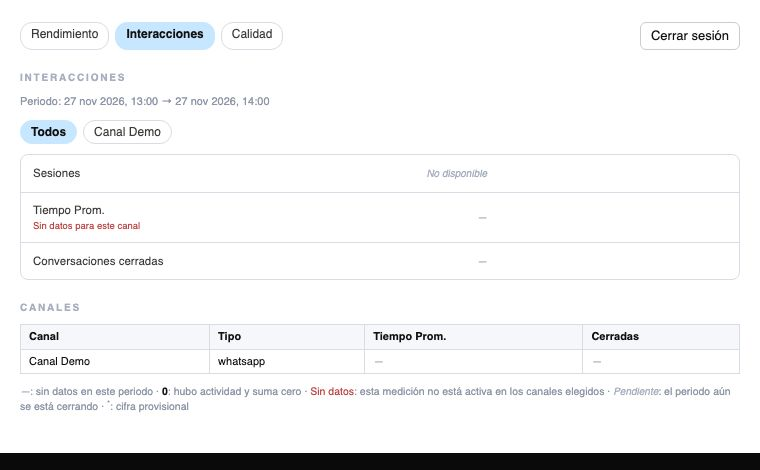
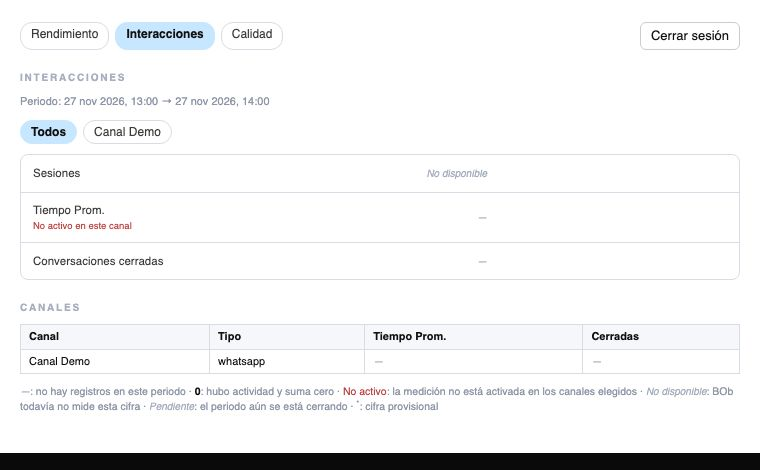
fix(bob): una palabra por significado en la vista del viewer
«—» es que no hubo registros, «No activo» que la medición no está activada
en los canales elegidos, «No disponible» que BOb aún no la mide y
«Pendiente» que el periodo se está cerrando. La leyenda de cada pantalla
nombra solo lo que esa pantalla puede pintar. Para el viewer, s0–s4 llevan
los nombres del simulador (Enojado … Feliz) y la celda sin sentido de MECA
queda vacía en vez de «no aplica». LocalWindow recibe milisegundos, así que
la ventana ISO no viaja en lo que recibe el viewer.

Changed region(s): [[0.0303, 0.8043, 0.9684, 0.8936], [0.0303, 0.4766, 0.1816, 0.5064]]

diff --git a/lib/bob/screen-copy.ts b/lib/bob/screen-copy.ts
@@ -11,7 +11,7 @@
 // viewer, so an unknown role never sees the technical text.
 import type { Cell, MatrixRow } from './matrix.ts'
 import { STATE_LABEL, reasonSummary, stateTitle } from './cell-state.ts'
-import type { NotProjection } from './screens.ts'
+import type { NotProjection, SentimentState } from './screens.ts'
 
 export type Audience = 'viewer' | 'technical'
 
@@ -35,7 +35,18 @@ export type Paint = {
 
 export type CellFormat = { format?: (v: number) => string; unit?: string; pct?: boolean }
 
-const VIEWER_NO_DATA = 'Sin datos en este periodo.'
+// One word, one meaning, for the viewer (review of PR #66):
+//   «—»             nothing was recorded in the period;
+//   «No activo»     the measurement is not switched on for the chosen channels;
+//   «No disponible» BOb does not measure this figure yet;
+//   «Pendiente»     the period is still closing.
+export const VIEWER_WORD = {
+  none: '—',
+  inactive: 'No activo',
+  unavailable: 'No disponible',
+  pending: 'Pendiente',
+} as const
+const VIEWER_NONE = 'No hay registros en este periodo.'
 const VIEWER_PROVISIONAL = 'Cifra provisional: el periodo aún no cierra.'
 
 export function paintCell(cell: Cell, a: Audience, f: CellFormat = {}): Paint {
@@ -47,15 +58,17 @@ export function paintCell(cell: Cell, a: Audience, f: CellFormat = {}): Paint {
     const title = tech ? stateTitle(st) : undefined
     switch (st.state) {
       case 'not_applicable':
-        return { tone: 'empty', text: '', title, label: STATE_LABEL.not_applicable }
+        return { tone: 'empty', text: '', title, label: tech ? STATE_LABEL.not_applicable : undefined }
       case 'not_configured':
         return tech
           ? { tone: 'notConfigured', text: reasonSummary(st.reasons) || STATE_LABEL.not_configured, title }
-          : { tone: 'notConfigured', text: 'Sin datos' }
+          : { tone: 'notConfigured', text: VIEWER_WORD.inactive }
       case 'pending':
-        return { tone: 'noRow', text: STATE_LABEL.pending, title: tech ? title : 'Los datos de este periodo aún se están cerrando.' }
+        return { tone: 'noRow', text: STATE_LABEL.pending, title: tech ? title : 'El periodo aún se está cerrando.' }
       default:
-        return { tone: 'noRow', text: '—', title: tech ? title : VIEWER_NO_DATA, label: STATE_LABEL[st.state] }
+        return tech
+          ? { tone: 'noRow', text: '—', title, label: STATE_LABEL[st.state] }
+          : { tone: 'noRow', text: VIEWER_WORD.none, title: VIEWER_NONE }
     }
   }
   // Observed with no row: a declared-absent actor, a zero by declaration (F-32).
@@ -66,7 +79,7 @@ export function paintCell(cell: Cell, a: Audience, f: CellFormat = {}): Paint {
   if (cell.kind === 'no_row') {
     return tech
       ? { tone: 'noRow', text: 'sin fila', title: 'sin fila de proyección' }
-      : { tone: 'noRow', text: '—', title: VIEWER_NO_DATA }
+      : { tone: 'noRow', text: VIEWER_WORD.none, title: VIEWER_NONE }
   }
   const open = cell.open > 0 ? (tech ? `${cell.open} de ${cell.rows} filas sin sellar` : VIEWER_PROVISIONAL) : undefined
   if (cell.kind === 'zero') {
@@ -85,7 +98,12 @@ export function paintCell(cell: Cell, a: Audience, f: CellFormat = {}): Paint {
 export function paintNoProjection(np: NotProjection, a: Audience): Paint {
   return a === 'technical'
     ? { tone: 'noRow', text: 'sin proyección', title: np.note }
-    : { tone: 'noRow', text: 'No disponible' }
+    : { tone: 'noRow', text: VIEWER_WORD.unavailable }
+}
+
+// A cell that has no meaning for its row (MECA has no conversation close).
+export function paintNotApplicable(a: Audience): Paint {
+  return a === 'technical' ? { tone: 'noRow', text: 'no aplica' } : { tone: 'empty', text: '' }
 }
 
 // ── Lines under a metric's name ──────────────────────────────────────────────
@@ -95,7 +113,7 @@ export type Note = { tone: 'source' | 'notConfigured'; text: string }
 
 // What a viewer reads when no selected channel can produce the figure.
 export function viewerNoData(selectedCount: number): string {
-  return selectedCount === 1 ? 'Sin datos para este canal' : 'Sin datos para estos canales'
+  return `${VIEWER_WORD.inactive} ${selectedCount === 1 ? 'en este canal' : 'en estos canales'}`
 }
 
 // Under a Performance row: where the figure comes from (technical), or only
@@ -183,16 +201,25 @@ export function sentimentTitle(a: Audience): string {
 // One legend item: a sample painted in a tone, then its meaning.
 export type LegendItem = { sample?: { tone: Tone | 'sup'; text: string }; text: string }
 
-const VIEWER_LEGEND: LegendItem[] = [
-  { sample: { tone: 'noRow', text: '—' }, text: 'sin datos en este periodo' },
-  { sample: { tone: 'zero', text: '0' }, text: 'hubo actividad y suma cero' },
-  { sample: { tone: 'notConfigured', text: 'Sin datos' }, text: 'esta medición no está activa en los canales elegidos' },
-  { sample: { tone: 'noRow', text: 'Pendiente' }, text: 'el periodo aún se está cerrando' },
-  { sample: { tone: 'sup', text: '*' }, text: 'cifra provisional' },
-]
+// The viewer's legend names only what the screen can paint: «Pendiente» only
+// where Slice 3 states are read, «No disponible» only where a figure has no
+// measurement behind it, the share only where there are shares.
+export function viewerLegend(o: { pending: boolean; unavailable: boolean; share?: string; extra?: string }): LegendItem[] {
+  const items: LegendItem[] = [
+    { sample: { tone: 'noRow', text: VIEWER_WORD.none }, text: 'no hay registros en este periodo' },
+    { sample: { tone: 'zero', text: '0' }, text: 'hubo actividad y suma cero' },
+    { sample: { tone: 'notConfigured', text: VIEWER_WORD.inactive }, text: 'la medición no está activada en los canales elegidos' },
+  ]
+  if (o.unavailable) items.push({ sample: { tone: 'noRow', text: VIEWER_WORD.unavailable }, text: 'BOb todavía no mide esta cifra' })
+  if (o.pending) items.push({ sample: { tone: 'noRow', text: VIEWER_WORD.pending }, text: 'el periodo aún se está cerrando' })
+  items.push({ sample: { tone: 'sup', text: '*' }, text: 'cifra provisional' })
+  if (o.share) items.push({ text: o.share })
+  if (o.extra) items.push({ text: o.extra })
+  return items
+}
 
-export function performanceLegend(a: Audience): LegendItem[] {
-  if (a === 'viewer') return [...VIEWER_LEGEND, { text: '% = parte del total de la fila' }]
+export function performanceLegend(a: Audience, slice3: boolean): LegendItem[] {
+  if (a === 'viewer') return viewerLegend({ pending: slice3, unavailable: true, share: '% = parte del total de la fila' })
   return [
     { sample: { tone: 'noRow', text: 'sin fila' }, text: 'ninguna fila de proyección en la ventana' },
     { sample: { tone: 'noRow', text: 'sin proyección' }, text: 'la fila de la demo no tiene tabla detrás' },
@@ -203,24 +230,33 @@ export function performanceLegend(a: Audience): LegendItem[] {
   ]
 }
 
-export function qualityLegend(a: Audience): LegendItem[] {
-  const mix = 'ORGA y MECA no se mezclan: la mezcla depende del peso mecánico configurado y se calcula al leer.'
+export function qualityLegend(a: Audience, slice3: boolean): LegendItem[] {
   if (a === 'viewer') {
-    return [...VIEWER_LEGEND, { text: '% = parte de las lecturas de esa fuente' }, { text: 'ORGA y MECA se muestran por separado.' }]
+    return viewerLegend({
+      pending: slice3, unavailable: true,
+      share: '% = parte de las lecturas de esa fuente', extra: 'ORGA y MECA se muestran por separado.',
+    })
   }
   return [
     { sample: { tone: 'noRow', text: 'sin fila' }, text: 'ninguna fila en la ventana' },
     { sample: { tone: 'zero', text: '0' }, text: 'hay filas y suman cero' },
     { text: '% = parte de las lecturas de esa fuente' },
     { sample: { tone: 'sup', text: '*' }, text: 'incluye buckets sin sellar' },
-    { text: mix },
+    { text: 'ORGA y MECA no se mezclan: la mezcla depende del peso mecánico configurado y se calcula al leer.' },
   ]
 }
 
-// Interactions has no legend of its own; the viewer gets the shared one.
-export function interactionsLegend(a: Audience): LegendItem[] | null {
-  return a === 'viewer' ? VIEWER_LEGEND : null
+// Interactions has no legend of its own; the viewer gets one.
+export function interactionsLegend(a: Audience, slice3: boolean): LegendItem[] | null {
+  return a === 'viewer' ? viewerLegend({ pending: slice3, unavailable: true }) : null
 }
+
+// The five sentiment states are ordinal (contract §6.2). The viewer reads
+// them with the simulator's own names (public/dashboard.html, T.es.sent).
+const SENTIMENT_LABEL: Record<SentimentState, string> = {
+  s0: 'Enojado', s1: 'Insatisfecho', s2: 'Satisfecho', s3: 'Contento', s4: 'Feliz',
+}
+export const sentimentLabel = (st: SentimentState, a: Audience) => (a === 'technical' ? st : SENTIMENT_LABEL[st])
 
 // Slice 3's note: technical only. The viewer's legend already says what each
 // state means.

diff --git a/lib/bob/screen-copy.test.ts b/lib/bob/screen-copy.test.ts
@@ -63,7 +63,7 @@ function screenText(screen: Screen, a: Audience, channels: Channel[]): string[] 
   if (screen === 'performance') {
     const m = buildMatrix([], [], channels)
     for (const r of [...m.rows, ...m.labelFailures]) out.push(...noteText(rowSource(r, a, n)))
-    out.push(...paintText(paintNoTable(a)), labelFailuresTitle(a), ...legendText(performanceLegend(a)))
+    out.push(...paintText(paintNoTable(a)), labelFailuresTitle(a), ...legendText(performanceLegend(a, true)))
     if (showsTechnicalTables(a)) out.push('Canales seleccionados', 'lag_seconds', 'idle_bound_seconds', 'Capacidades', 'proj_durations')
   }
   if (screen === 'interactions') {
@@ -71,12 +71,12 @@ function screenText(screen: Screen, a: Audience, channels: Channel[]): string[] 
     out.push(...noteText(techNote(s.sessions.note, a)), ...paintText(paintNoProjection(s.sessions, a)))
     out.push(...noteText(techNote('proj_durations · interaction_duration (sum_ms / n)', a)))
     out.push(...noteText(declared('capacidad resolution', s.durationDeclaredBy, a, n)))
-    out.push(...noteText(techNote('n de interaction_duration', a)), ...legendText(interactionsLegend(a)))
+    out.push(...noteText(techNote('n de interaction_duration', a)), ...legendText(interactionsLegend(a, true)))
   }
   if (screen === 'quality') {
     const s = buildQuality([], [], channels)
     out.push(...noteText(techNote(s.nps.note, a)), ...paintText(paintNoProjection(s.nps, a)))
-    out.push(sentimentTitle(a), labelFailuresTitle(a), ...legendText(qualityLegend(a)))
+    out.push(sentimentTitle(a), labelFailuresTitle(a), ...legendText(qualityLegend(a, true)))
     for (const p of [s.orga, s.meca]) {
       out.push(...noteText(declared(p.source === 'orga' ? 'orga_conversation' : 'meca_rum', p.declaredBy, a, n)))
     }
@@ -124,11 +124,11 @@ test('only admin and analyst are technical; viewer, no role and unknown roles re
   assert.equal(showsTechnicalTables('viewer'), false)
 })
 
-test('the viewer red warning is short and says whether one channel or several', () => {
+test('the viewer warning is short and says whether one channel or several', () => {
   const m = buildMatrix([], [], [ch('a', [])])
   const resolved = m.rows.find((r) => r.spec.id === 'resolved')!
-  assert.deepEqual(rowSource(resolved, 'viewer', 1), { tone: 'notConfigured', text: 'Sin datos para este canal' })
-  assert.deepEqual(rowSource(resolved, 'viewer', 3), { tone: 'notConfigured', text: 'Sin datos para estos canales' })
+  assert.deepEqual(rowSource(resolved, 'viewer', 1), { tone: 'notConfigured', text: 'No activo en este canal' })
+  assert.deepEqual(rowSource(resolved, 'viewer', 3), { tone: 'notConfigured', text: 'No activo en estos canales' })
   assert.equal(rowSource(m.rows.find((r) => r.spec.id === 'escalations')!, 'viewer', 1), null)
 })
 
@@ -150,4 +150,22 @@ test('the window reads as a date and time, not as ISO instants', () => {
   assert.match(s, /10:00/)
   assert.match(s, /11:00/)
   assert.match(formatWindow(FROM, TO, 'America/Bogota'), /5:00/)
+})
+
+test('each viewer word has one meaning', () => {
+  const v = (c: Cell) => paintCell(c, 'viewer').text
+  assert.equal(v({ kind: 'no_row' }), '—')
+  assert.equal(v({ kind: 'no_row', state: info('not_observed', ['no_liveness']) }), '—')
+  assert.equal(v({ kind: 'no_row', state: info('not_configured', ['source_key_unset']) }), 'No activo')
+  assert.equal(v({ kind: 'no_row', state: info('pending', ['not_sealed']) }), 'Pendiente')
+  assert.equal(paintNoProjection({ kind: 'not_projection', note: 'x' }, 'viewer').text, 'No disponible')
+  // «Pendiente» is named only where Slice 3 states are read.
+  const has = (items: LegendItem[] | null, w: string) => (items ?? []).some((i) => i.sample?.text === w)
+  assert.equal(has(interactionsLegend('viewer', false), 'Pendiente'), false)
+  assert.equal(has(interactionsLegend('viewer', true), 'Pendiente'), true)
+  for (const legend of [performanceLegend('viewer', true), qualityLegend('viewer', true), interactionsLegend('viewer', true)]) {
+    const words = legend!.flatMap((i) => (i.sample ? [i.sample.text] : []))
+    assert.equal(new Set(words).size, words.length)
+    assert.doesNotMatch(legend!.map((i) => i.text).join(' '), /sin datos/i)
+  }
 })

diff --git a/app/bob/quality/page.tsx b/app/bob/quality/page.tsx
@@ -10,10 +10,11 @@ import {
   BobConfigError, UnknownChannelError, boxOrgId, readQuality, type QualityRead,
 } from '@/lib/bob/projection-reader.ts'
 import {
-  CellText, ChannelPicker, LegendView, NoProjection, NoteLine, ReadError, ScreenHeader, ScreenNav, Unavailable, Forbidden, windowQs,
+  CellText, ChannelPicker, LegendView, NoProjection, NoteLine, PaintView, ReadError, ScreenHeader, ScreenNav, Unavailable, Forbidden, windowQs,
 } from '../screen-parts'
 import {
-  audienceFor, declared, labelFailuresTitle, qualityLegend, readError, sentimentTitle, sliceThreeNote, techNote,
+  audienceFor, declared, labelFailuresTitle, paintNotApplicable, qualityLegend, readError, sentimentLabel, sentimentTitle,
+  sliceThreeNote, techNote,
   type Audience,
 } from '@/lib/bob/screen-copy.ts'
 import styles from '../performance/matrix.module.css'
@@ -65,7 +66,7 @@ export default async function QualityPage({ searchParams }: { searchParams: Sear
           ))}
         </tbody>
       </table>
-      <LegendView items={qualityLegend(a)} />
+      <LegendView items={qualityLegend(a, read.cells !== null)} />
       <LegendView items={sliceThreeNote(a, read.cells !== null)} />
     </main>
   )
@@ -75,7 +76,7 @@ function SentimentTable({ panels, a, n }: { panels: SentimentPanel[]; a: Audienc
   return (
     <table className={styles.table}>
       <thead>
-        <tr><th>Fuente</th>{SENTIMENT_STATES.map((st) => <th key={st}>{st}</th>)}<th>Lecturas</th><th>Cierres</th></tr>
+        <tr><th>Fuente</th>{SENTIMENT_STATES.map((st) => <th key={st}>{sentimentLabel(st, a)}</th>)}<th>Lecturas</th><th>Cierres</th></tr>
       </thead>
       <tbody>
         {panels.map((p) => {
@@ -88,7 +89,7 @@ function SentimentTable({ panels, a, n }: { panels: SentimentPanel[]; a: Audienc
               </td>
               {SENTIMENT_STATES.map((st) => <td key={st}><CellText cell={p.states[st]} a={a} pct /></td>)}
               <td><CellText cell={p.total} a={a} /></td>
-              <td>{p.source === 'orga' ? <CellText cell={p.closings} a={a} /> : <span className={styles.noRow}>no aplica</span>}</td>
+              <td>{p.source === 'orga' ? <CellText cell={p.closings} a={a} /> : <PaintView p={paintNotApplicable(a)} />}</td>
             </tr>
           )
         })}

diff --git a/app/bob/screen-parts.tsx b/app/bob/screen-parts.tsx
@@ -110,7 +110,7 @@ export function ScreenHeader({ screen, a, from, to, orgId, watermark }: {
       <div className={styles.sectionLabel}>{screenTitle(screen, a)}</div>
       <p className={styles.meta}>
         {a === 'viewer'
-          ? <LocalWindow from={from.toISOString()} to={to.toISOString()} />
+          ? <LocalWindow from={from.getTime()} to={to.getTime()} />
           : technicalMeta({ from, to }, { orgId, watermark }).map((m, i) => (
             <span key={m.label}>{i > 0 ? ' · ' : null}{m.label} <code>{m.value}</code></span>
           ))}

diff --git a/app/bob/local-window.tsx b/app/bob/local-window.tsx
@@ -6,7 +6,9 @@ import { formatWindow } from '@/lib/bob/screen-copy.ts'
 
 const subscribe = () => () => {}
 
-export function LocalWindow({ from, to }: { from: string; to: string }) {
+// Epoch milliseconds, not ISO strings: the viewer's payload carries no ISO
+// instant (review of PR #66).
+export function LocalWindow({ from, to }: { from: number; to: number }) {
   const text = useSyncExternalStore(
     subscribe,
     () => formatWindow(new Date(from), new Date(to)),

diff --git a/app/bob/performance/page.tsx b/app/bob/performance/page.tsx
@@ -69,7 +69,7 @@ export default async function PerformanceMatrixPage({ searchParams }: { searchPa
         {matrix.labelFailures.map((r) => <Row key={r.spec.id} row={r} actors={matrix.actors} a={a} n={n} />)}
       </div>
 
-      <LegendView items={performanceLegend(a)} />
+      <LegendView items={performanceLegend(a, read.cells !== null)} />
       <LegendView items={sliceThreeNote(a, read.cells !== null)} />
 
       {showsTechnicalTables(a) ? <>

diff --git a/app/bob/interactions/page.tsx b/app/bob/interactions/page.tsx
@@ -81,7 +81,7 @@ export default async function InteractionsPage({ searchParams }: { searchParams:
           ))}
         </tbody>
       </table>
-      <LegendView items={interactionsLegend(a)} />
+      <LegendView items={interactionsLegend(a, read.cells !== null)} />
       <LegendView items={sliceThreeNote(a, read.cells !== null)} />
     </main>
   )

diff --git a/CHANGELOG.md b/CHANGELOG.md
@@ -3,7 +3,7 @@
 Una línea por cambio entregado, en lenguaje de usuario.
 
 ## Sin publicar
-- Pantallas de BOb (Rendimiento, Interacciones, Calidad): un viewer ya no ve el id de la organización, nombres de tablas o capacidades, el watermark ni la jerga del Slice 3. Ve un título simple, el periodo en su hora local, «Sin datos para este canal» donde falta configuración y una leyenda en lenguaje de cliente. Admin y analyst siguen viendo la versión técnica. Las cifras no cambian.
+- Pantallas de BOb (Rendimiento, Interacciones, Calidad): un viewer ya no ve el id de la organización, nombres de tablas o capacidades, el watermark ni la jerga del Slice 3. Ve un título simple, el periodo en su hora local, «No activo en este canal» donde falta configuración, los estados de ánimo con sus nombres (Enojado … Feliz) y una leyenda en lenguaje de cliente con una palabra para cada cosa. Admin y analyst siguen viendo la versión técnica. Las cifras no cambian.
 - Modo caja: la pantalla de carga de BOb es la de Hivemonic: fondo negro, logotipo de Boss Technology y barra ámbar. La ven `/entrar` mientras recibe la sesión del portal (y su aviso si falla, con el enlace al portal en ámbar) y las pantallas `/bob` mientras cargan. Sin marca de cliente y sin nada de otro origen.
 - BOb al lado de la caja: el certificado de vecina que deja `cert-vecina.sh` de Bzzz en `/opt/bob/secrets/vecinos/` ya no impide desplegar bob-web. `deploy.sh` acepta ese directorio solo con `cliente.key` a 600 y `cliente.crt` y `ca.crt`, del usuario de los contenedores, y se niega con cualquier otro nombre, enlace o permiso. El feeder monta esos tres ficheros. El feeder sigue fuera de v1: BOb arranca vacío.
 - Modo caja: queda escrito en `docs/adr/0001-entrar-sin-nonce-en-v1.md`, como propuesta para la firma de Henry, que en v1 `/entrar` acepta el token del portal sin nonce. Un enlace armado por otra cuenta de la misma caja puede dejar a alguien dentro de BOb con esa cuenta; el nonce entre BOb y el portal queda para v1.1. La vuelta al portal usa el `Host` de la petición, no `X-Forwarded-Host`.
